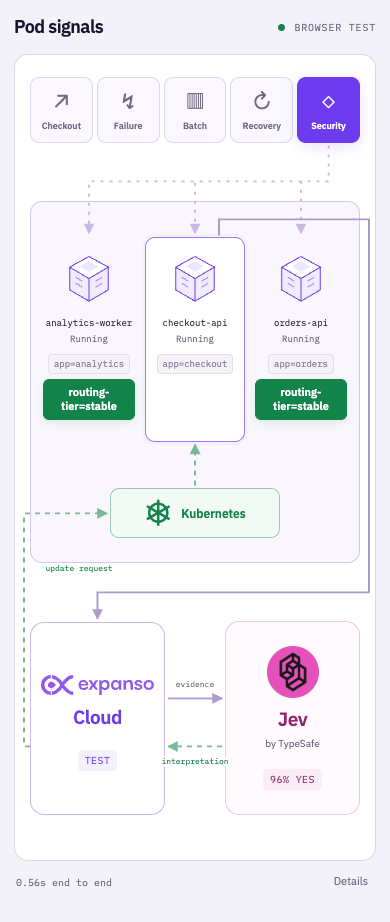
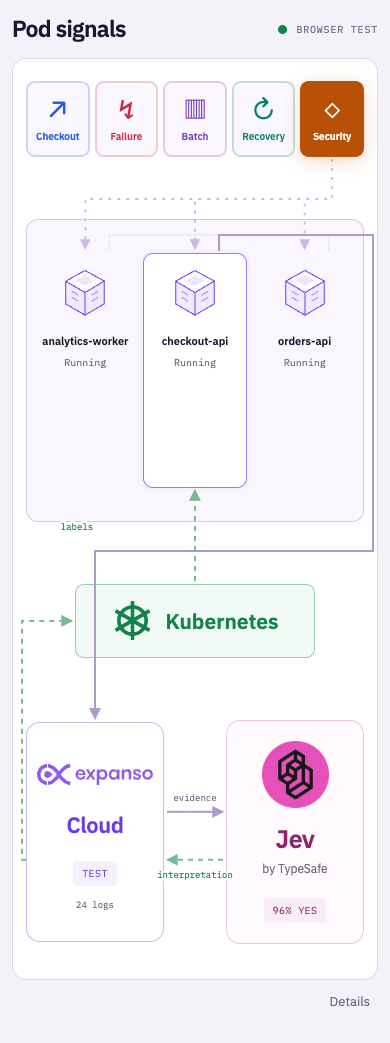
Make pod signals prominent over live routine traffic

diff --git a/demos/11-pod-labels/web/index.html b/demos/11-pod-labels/web/index.html
@@ -20,6 +20,7 @@
     <div class="topology" id="topology">
       <svg class="wires" id="wires" aria-hidden="true">
         <defs><marker id="arrow" viewBox="0 0 10 10" refX="9" refY="5" markerWidth="6" markerHeight="6" orient="auto-start-reverse"><path d="M0 0 10 5 0 10Z" fill="context-stroke"/></marker></defs>
+        <g id="routine-wires"></g>
         <g id="injection-wires"></g>
         <path id="to-cloud" class="wire"/>
         <path id="to-jev" class="wire"/>
@@ -27,6 +28,7 @@
         <path id="to-kube" class="wire return"/>
         <path id="to-pod" class="wire return"/>
         <g id="wire-labels"></g>
+        <g id="routine-packets"></g>
         <g id="packets"></g>
       </svg>
       <section class="event-source" id="event-source" aria-label="Workload events">
@@ -40,11 +42,11 @@
       </section>
       <div class="cluster" id="cluster">
         <div class="pods" id="pods"><p class="empty">Connecting…</p></div>
-        <div class="kube-node" id="kube-node"><span aria-hidden="true">⎈</span><b>Kubernetes</b></div>
       </div>
+      <div class="kube-node" id="kube-node"><span aria-hidden="true">⎈</span><b>Kubernetes</b></div>
       <div class="processor cloud-node" id="cloud-node" aria-label="Expanso Cloud">
[1 lines of base64/hex data omitted]
-        <h2>Cloud</h2><span class="node-status" id="cloud-status">UNKNOWN</span>
+        <h2>Cloud</h2><span class="node-status" id="cloud-status">UNKNOWN</span><span class="routine-count" id="routine-count">0 logs</span>
       </div>
       <div class="processor jev-node" id="jev-node" aria-label="Jev by TypeSafe">
[1 lines of base64/hex data omitted]
@@ -52,15 +54,16 @@
       </div>
     </div>
   </section>
-  <footer><span class="timing" id="timing">—</span><button id="details-toggle" aria-expanded="false" aria-controls="runtime-details">Details</button></footer>
+  <footer><span></span><button id="details-toggle" aria-expanded="false" aria-controls="runtime-details">Details</button></footer>
   <section id="runtime-details" class="runtime-details" hidden>
+<span class="timing" id="timing">—</span>
     <div class="result-bar" aria-live="polite"><span id="result-mark"></span><div><b id="result-title">Ready</b><span id="result-detail"></span></div></div>
     <section class="label-catalog" aria-label="Available labels"><h2>Available labels</h2><div id="available-labels"></div></section>
     <section class="evidence">
       <div class="log-panel"><div class="panel-heading"><h2>Pod logs <span id="selected-name"></span></h2></div><div class="log-lines" id="logs"></div></div>
       <div class="decision-panel"><div class="panel-heading"><h2>Decisions</h2><span class="micro" id="event-count">0 EVENTS</span></div><ol id="trail"></ol></div>
     </section>
-    <dl id="runtime-fields"></dl>
+    <dl id="runtime-fields"></dl><p>Muted particles represent routine logs collected by the Cloud pipeline. Colored particles follow triggered event receipts. Large badges highlight confirmed changes for five seconds; current Kubernetes labels remain listed below.</p><div id="current-labels"></div>
     <div hidden><span id="cluster-name"></span><span id="namespace"></span><span id="node-name"></span><span id="pod-count"></span><span id="activity"></span><span id="cloud-detail"></span></div>
   </section>
   <p id="error" role="alert" hidden></p>

diff --git a/demos/11-pod-labels/web/app.js b/demos/11-pod-labels/web/app.js
@@ -1,12 +1,15 @@
 'use strict';
 const $ = id => document.getElementById(id);
 const NS = 'http://www.w3.org/2000/svg';
-const colors = {source:'#6d3aed',cloud:'#6d3aed',jev:'#e347b6',return:'#187a3c',held:'#a06a22'};
+const eventColors={checkout:'#255ce5',failure:'#c92d4b',analytics:'#7839bc',recovery:'#087f6a',security:'#b85106'};
+const highlightMs=5000;
+const highlights=new Map();
+let routineCount=0,routineEpoch=0;
 const scenarios = {checkout:'Checkout',failure:'Route failure',analytics:'Batch job',recovery:'Recovery',security:'Security'};
 const names = {queued:'QUEUED',event:'POD LOG',collected:'CLOUD',judging:'JEV',judged:'VERDICT',applied:'APPLIED',undone:'UNDONE',held:'HELD',error:'ERROR','dry-run':'DRY RUN'};
 const cube = '<svg class="pod-icon" viewBox="0 0 72 76" aria-hidden="true"><path d="M36 5 65 21v34L36 72 7 55V21Z" fill="#f1ebfe" stroke="currentColor" stroke-width="1.5"/><path d="m7 21 29 17 29-17M36 38v34" fill="none" stroke="currentColor" stroke-width="1.5"/><path d="m36 5 29 16-29 17L7 21Z" fill="white" stroke="currentColor" stroke-width="1.5"/><path d="m22 20 14-8 14 8-14 8Z" fill="currentColor" opacity=".12"/><path d="m16 36 10 6m-10 3 10 6m20-9 10-6m-10 15 10-6" fill="none" stroke="currentColor" opacity=".45" stroke-width="2"/></svg>';
 let state=null,session=null,scenario='checkout',selected=null,cursor=0,initialized=false,refreshing=null,stateGeneration=0;
-const flows=new Map(),pending=new Map(),shownLabels=new Map();
+const flows=new Map(),pending=new Map();
 let events=[],eventPollTimer=null;
 const text=(id,value)=>{$(id).textContent=value??'';};
 function el(tag,cls,value){const n=document.createElement(tag);if(cls)n.className=cls;if(value!==undefined)n.textContent=value;return n;}
@@ -33,24 +36,27 @@ function geometry(podKey,chosenScenario=scenario){
   const bottom=$('topology').clientHeight-27;
   const toKube=mobile
     ?`M${c.x-c.w/2} ${returnY} H9 V${k.y} H${k.x-k.w/2-3}`
-    :`M${c.x} ${c.y+c.h/2+3} V${bottom} H${k.x} V${k.y+k.h/2+3}`;
-  const toPod=`M${k.x} ${k.y-k.h/2-3} V${p.y+p.h/2+26} H${p.x} V${p.y+p.h/2+2}`;
+    :`M${c.x} ${c.y-c.h/2-3} V${k.y+k.h/2+3}`;
+  const toPod=mobile
+    ?`M${k.x} ${k.y-k.h/2-3} V${p.y+p.h/2+26} H${p.x} V${p.y+p.h/2+2}`
+    :`M${k.x-k.w/2-3} ${k.y} H${cluster.x+cluster.w/2+38} V${bottom} H${p.x} V${p.y+p.h/2+2}`;
   return{inject,toCloud,toJev:`M${cRight+3} ${outboundY} H${jLeft-3}`,fromJev:`M${jLeft-3} ${returnY} H${cRight+3}`,toKube,toPod,
-    labels:[['evidence',(cRight+jLeft)/2,outboundY-11,false],['interpretation',(cRight+jLeft)/2,returnY+18,true],['update request',mobile?64:(k.x+c.x)/2,mobile?cluster.y+cluster.h/2+8:bottom-10,true]]};
+    labels:[['evidence',(cRight+jLeft)/2,outboundY-11,false],['interpretation',(cRight+jLeft)/2,returnY+18,true],['labels',mobile?64:(p.x+cluster.x+cluster.w/2+38)/2,mobile?cluster.y+cluster.h/2+8:bottom-10,true]]};
 }
 function drawWires(){
   const box=$('topology').getBoundingClientRect();$('wires').setAttribute('viewBox',`0 0 ${box.width} ${box.height}`);
   const g=geometry(selected);if(!g)return;
   for(const [id,path] of [['to-cloud',g.toCloud],['to-jev',g.toJev],['from-jev',g.fromJev],['to-kube',g.toKube],['to-pod',g.toPod]])$(id).setAttribute('d',path);
   $('wire-labels').replaceChildren(...g.labels.map(([label,x,y,back])=>{const n=svg('text',{x,y,class:'wire-label'+(back?' return':'')});n.textContent=label;return n;}));
+  $('routine-wires').replaceChildren(...(state?.pods||[]).map(p=>geometry(key(p))).filter(Boolean).map(p=>svg('path',{d:p.toCloud,class:'routine-wire'})));
   $('injection-wires').replaceChildren(...(state?.pods||[]).map(p=>geometry(key(p))).filter(Boolean).map(p=>svg('path',{d:p.inject,class:'injection-wire'})));
 }
-function travel(path,color,route,duration=220){
+function travel(path,color,route,duration=220,kind='signal'){
   if(!path||matchMedia('(prefers-reduced-motion: reduce)').matches)return Promise.resolve();
   const measure=svg('path',{d:path,fill:'none',stroke:'none'});
-  const packet=svg('g',{class:'packet','data-route':route,style:`color:${color}`});
-  packet.append(svg('circle',{r:12,fill:color,class:'packet-halo'}),svg('circle',{r:5,fill:color,class:'packet-core'}));
-  $('packets').append(measure,packet);
+  const packet=svg('g',{class:kind==='routine'?'routine-packet':'packet','data-route':route,style:`color:${color}`});
+  packet.append(svg('circle',{r:kind==='routine'?4:21,fill:color,class:'packet-halo'}),svg('circle',{r:kind==='routine'?2.5:9,fill:color,class:'packet-core'}));
+  $(kind==='routine'?'routine-packets':'packets').append(measure,packet);
   const length=measure.getTotalLength();
   const first=measure.getPointAtLength(0);packet.setAttribute('transform',`translate(${first.x} ${first.y})`);
   return new Promise(resolve=>{const start=performance.now();function frame(now){const progress=Math.min(1,(now-start)/duration),p=measure.getPointAtLength(length*progress);packet.setAttribute('transform',`translate(${p.x} ${p.y})`);if(progress<1)requestAnimationFrame(frame);else{packet.remove();measure.remove();resolve();}}requestAnimationFrame(frame);});
@@ -58,7 +64,8 @@ function travel(path,color,route,duration=220){
 function animate(flow,stage){
   flow.chain=flow.chain.then(async()=>{
     const g=geometry(flow.podKey,flow.scenario);if(!g)return;
-    const steps={inject:[g.inject,colors.source,'event-to-pod',120],event:[g.toCloud,colors.cloud,'pod-to-cloud',160],judging:[g.toJev,colors.jev,'cloud-to-jev',120],judged:[g.fromJev,colors.return,'jev-to-cloud',120],request:[g.toKube,colors.return,'cloud-to-kubernetes',100],terminal:[g.toPod,colors.return,'kubernetes-to-pod',100]};
+    const color=eventColors[flow.scenario]||eventColors.checkout;
+    const steps={inject:[g.inject,color,'event-to-pod',180],event:[g.toCloud,color,'pod-to-cloud',300],judging:[g.toJev,color,'cloud-to-jev',240],judged:[g.fromJev,color,'jev-to-cloud',240],request:[g.toKube,color,'cloud-to-kubernetes',240],terminal:[g.toPod,color,'kubernetes-to-pod',260]};
     const args=steps[stage];if(args)await travel(...args);
   });
   return flow.chain;
@@ -87,12 +94,7 @@ function renderPods(){
     if(!button){button=el('button','pod');button.dataset.pod=id;button.dataset.name=pod.name;button.innerHTML=cube;button.append(el('span','pod-name',pod.name),el('span','pod-phase'),el('span','pod-labels'));button.addEventListener('click',()=>sendEvent(pod));$('pods').append(button);}
     button.dataset.enabled=String(pod.event_enabled!==false);
     button.querySelector('.pod-phase').textContent=pod.status||'Unknown';
-    const prior=shownLabels.get(id)||{};
-    const labels=pending.has(id)&&shownLabels.has(id)?prior:(pod.labels||{});
-    if(button.dataset.labels!==JSON.stringify(labels)){
-      button.querySelector('.pod-labels').replaceChildren(...Object.entries(labels).filter(([k])=>!k.startsWith('jev.expanso.io/')&&!['pod-template-hash','controller-revision-hash'].includes(k)).map(([k,v])=>el('span','label'+(k==='routing-tier'?' routing':'')+(k in labels&&prior[k]!==v&&shownLabels.has(id)?' new':''),`${k}=${v}`)));
-      button.dataset.labels=JSON.stringify(labels);shownLabels.set(id,{...labels});
-    }
+
   }
   text('pod-count',`${pods.length} pods`);text('node-name',[...new Set(pods.map(p=>p.node).filter(Boolean))].join(' · ')||'Kubernetes workloads');updateBusy();requestAnimationFrame(drawWires);
 }
@@ -108,7 +110,7 @@ function acceptEvents(incoming,animateNew=true){
     if(event.seq<=cursor)continue;
     const id=`${event.namespace}/${event.pod}`,localFlow=pending.get(id);
     if(animateNew&&localFlow&&!localFlow.requestId)break;
-    cursor=event.seq;events.push(event);if(!animateNew)continue;
+    cursor=event.seq;if(event.stage==='routine'){if(animateNew)showRoutine(event);continue;}events.push(event);if(!animateNew)continue;
     let flow=flows.get(event.request_id);
     if(!flow&&localFlow&&localFlow.requestId===event.request_id)flow=localFlow;
     if(!flow&&localFlow)continue;
@@ -144,15 +146,32 @@ async function finish(flow,event){
   if(event.stage==='error')showError(explanation);
   updateBusy();await refreshState();renderPods();renderLogs();
 }
+function showRoutine(event){
+  const id=`${event.namespace}/${event.pod}`;
+  const count=Math.max(0,Math.min(12,Number(event.count)||0));
+  routineCount+=Number(event.count)||0;text('routine-count',`${routineCount.toLocaleString()} logs`);
+  const epoch=routineEpoch;
+  for(let i=0;i<count;i++)setTimeout(()=>{
+    if(epoch!==routineEpoch||document.hidden||state?.cloud?.state!=='running')return;
+    const g=geometry(id);if(g)travel(g.toCloud,'#9892a8','routine-to-cloud',1400,'routine');
+  },i*140);
+}
 function showLabelChange(flow,event){
   const button=podButton(flow.podKey);if(!button)return;
-  clearTimeout(button.changeTimer);
+  clearTimeout(highlights.get(flow.podKey)?.timer);
   button.querySelectorAll('.label-change').forEach(n=>n.remove());
-  button.classList.remove('changed-added','changed-removed');
+  const color=eventColors[flow.scenario]||eventColors.checkout;
   const removed=event.stage==='undone';
-  const change=el('span','label-change '+(removed?'removed':'added'),`${removed?'−':'+'} ${event.key}=${event.value}`);
-  button.append(change);button.classList.add(removed?'changed-removed':'changed-added');
-  button.changeTimer=setTimeout(()=>{change.remove();button.classList.remove('changed-removed','changed-added');},1400);
+  const change=el('span','label-change '+(removed?'removed':'added'));
+  change.style.setProperty('--event-color',color);
+  change.append(el('strong','',event.value),el('span','',removed?`${event.key} removed`:event.key));
+  change.dataset.scenario=flow.scenario;change.dataset.value=event.value;
+  button.append(change);button.style.setProperty('--signal-color',color);button.classList.add('signal-highlight');
+  const record={node:change,timer:null};highlights.set(flow.podKey,record);
+  record.timer=setTimeout(()=>{
+    if(highlights.get(flow.podKey)!==record)return;
+    change.remove();button.classList.remove('signal-highlight');highlights.delete(flow.podKey);
+  },highlightMs);
 }
 async function sendEvent(pod){
   const id=key(pod);if(pending.has(id))return;
@@ -170,6 +189,7 @@ async function sendEvent(pod){
 }
 function renderState(){
   const cloud=state.cloud||{};
+  $('current-labels').replaceChildren(...(state.pods||[]).map(p=>{const row=el('p');row.append(el('b','',p.name+' '),el('code','',JSON.stringify(p.labels||{})));return row;}));
   $('available-labels').replaceChildren(...(state.available_labels||[]).map(label=>{const item=el('div','label-choice');item.append(el('code','',`${label.key}=${label.value}`),el('span','',label.meaning));return item;}));
   text('connection',cloud.state==='running'?'Cloud execution running':cloud.state==='stopped'?'Cloud job stopped':'Cloud execution unverified');$('connection-dot').className='dot'+(cloud.state==='running'?' live':'');
   text('mode',state.apply_enabled?'LIVE':'DRY RUN');$('mode').classList.toggle('dry',!state.apply_enabled);
@@ -184,12 +204,13 @@ function refreshState(){
   return refreshing;
 }
 async function pollEvents(){
-  try{if(initialized){const r=await fetch(`/api/events?after=${cursor}`,{cache:'no-store'});if(!r.ok)throw Error('Event feed unavailable');const body=await r.json();if(Number.isFinite(body.cursor)&&body.cursor<cursor){cursor=0;initialized=false;events=[];flows.clear();pending.clear();session=null;shownLabels.clear();stateGeneration++;text('result-title','Adapter reconnected.');text('result-detail','Ready for a new event. Previous in-flight results are unverified.');text('timing','—');await refreshState();}else acceptEvents(body.events||[]);}}
+  try{if(initialized){const r=await fetch(`/api/events?after=${cursor}`,{cache:'no-store'});if(!r.ok)throw Error('Event feed unavailable');const body=await r.json();if(Number.isFinite(body.cursor)&&body.cursor<cursor){cursor=0;initialized=false;events=[];flows.clear();pending.clear();session=null;routineEpoch++;routineCount=0;for(const h of highlights.values()){clearTimeout(h.timer);h.node.remove();}highlights.clear();document.querySelectorAll(".signal-highlight").forEach(n=>n.classList.remove("signal-highlight"));stateGeneration++;text('result-title','Adapter reconnected.');text('result-detail','Ready for a new event. Previous in-flight results are unverified.');text('timing','—');await refreshState();}else acceptEvents(body.events||[]);}}
   catch{if(pending.size)text('activity','Event feed disconnected; waiting to reconnect.');}
   finally{eventPollTimer=setTimeout(pollEvents,200);}
 }
+for(const button of document.querySelectorAll('[data-scenario]'))button.style.setProperty('--event-color',eventColors[button.dataset.scenario]);
 for(const button of document.querySelectorAll('[data-scenario]'))button.addEventListener('click',()=>{scenario=button.dataset.scenario;for(const b of document.querySelectorAll('[data-scenario]')){b.classList.toggle('active',b===button);b.setAttribute('aria-pressed',String(b===button));}updateBusy();drawWires();});
 $('details-toggle').addEventListener('click',()=>{const hidden=!$('runtime-details').hidden;$('runtime-details').hidden=hidden;$('details-toggle').setAttribute('aria-expanded',String(!hidden));$('details-toggle').textContent=hidden?'Details':'Close';});
 window.addEventListener('resize',drawWires);new ResizeObserver(drawWires).observe($('topology'));
-window.addEventListener('pagehide',()=>clearTimeout(eventPollTimer));
+window.addEventListener('pagehide',()=>{clearTimeout(eventPollTimer);routineEpoch++;for(const h of highlights.values())clearTimeout(h.timer);});
 refreshState().then(pollEvents);setInterval(refreshState,2500);

diff --git a/demos/11-pod-labels/web/style.css b/demos/11-pod-labels/web/style.css
@@ -47,3 +47,23 @@ footer{display:flex;align-items:center;justify-content:space-between;padding:12p
 @media(max-width:850px){.shell{padding-inline:14px}.topbar{height:54px}.topology{grid-template-columns:repeat(2,minmax(0,1fr));grid-template-rows:auto auto auto;gap:58px 72px;padding:22px 22px 45px}.event-source{grid-column:1/3;grid-row:1}.cluster{grid-column:1/3;grid-row:2;padding:35px 8px 120px}.cloud-node{grid-column:1;grid-row:3}.jev-node{grid-column:2;grid-row:3}.processor{min-height:193px}.pods{gap:6px}.event-chip b{font-size:11px}.label.routing{font-size:12px}.evidence{grid-template-columns:1fr}.runtime-details dl{grid-template-columns:1fr}.runtime-details dd{margin-bottom:8px}}
 @media(max-width:420px){.topology{column-gap:60px;padding-inline:15px}.event-tray{gap:4px}.event-chip b{font-size:9px}.event-icon{font-size:22px}.pod{padding-inline:3px;min-height:205px}.pod-name{font-size:9px}.pod-icon{width:48px;height:53px}.label.routing{font-size:11px}.label-change{font-size:11px;padding:6px}.processor h2{font-size:19px}.expanso-logo{height:38px}.typesafe-logo{width:52px;height:52px}.wire-label{font-size:8px}}
 @media(prefers-reduced-motion:reduce){*,*::before,*::after{animation:none!important;transition:none!important}.packet{display:none}}
+
+/* Large capture canvas: ordinary traffic stays quiet; signals retain one color. */
+.shell{max-width:none;padding:0 28px 18px}
+.topbar{height:72px}h1{font-size:28px}.mode{font-size:12px}.dot{width:9px;height:9px}
+.board{min-height:680px;height:calc(100svh - 125px)}
+.topology{height:100%;grid-template-columns:minmax(0,1.8fr) minmax(0,.8fr) minmax(0,.7fr);grid-template-rows:110px minmax(0,1fr);column-gap:84px;row-gap:40px;padding:26px 30px 70px}
+.event-source{align-self:center}.event-tray{gap:12px}.event-chip{min-height:90px;gap:5px;border-width:2px;border-color:color-mix(in srgb,var(--event-color) 25%,white);color:var(--event-color)}.event-chip b{font-size:17px}.event-icon{font-size:34px}.event-chip.active{background:var(--event-color);border-color:var(--event-color);box-shadow:0 4px 18px color-mix(in srgb,var(--event-color) 22%,transparent);color:white}
+.cluster{align-self:stretch;display:flex;align-items:center;padding:38px 12px 35px;min-height:340px}.pods{width:100%;gap:12px}.pod{min-height:290px;padding:17px 7px 112px;justify-content:flex-start}.pod-icon{width:92px;height:99px}.pod-name{font:600 17px var(--sans);margin:15px 0 8px}.pod-phase{font-size:12px}.pod-labels{display:none}
+.kube-node{position:relative;grid-column:2;grid-row:1;bottom:auto;left:auto;transform:none;align-self:center;justify-self:center;width:100%;max-width:290px;min-height:86px;padding:15px;gap:12px}.kube-node>span{font-size:42px}.kube-node b{font-size:21px}
+.processor{min-height:290px;padding:26px 18px}.expanso-logo{height:66px;max-width:280px}.typesafe-logo{width:94px;height:94px}.processor h2{font-size:32px;margin:13px 0 20px}.cloud-node h2{font-size:27px}.processor h2 small{font-size:14px}.node-status{font-size:13px;padding:6px 9px}.routine-count{font:13px var(--mono);color:var(--muted);margin-top:13px}
+.wire-label{font-size:12px}.wire{stroke-width:2}.routine-wire{fill:none;stroke:#b4afbf;stroke-width:1;opacity:.3}.routine-packet{opacity:.58}.routine-packet .packet-core{stroke:none}.routine-packet .packet-halo{opacity:.13}.packet{filter:drop-shadow(0 0 7px currentColor)}.packet-halo{opacity:.17}
+.label-change{left:8px;right:8px;bottom:14px;transform:none;width:auto;white-space:normal;text-align:center;min-height:86px;padding:12px 6px;background:var(--event-color)!important;color:white;box-shadow:0 5px 20px color-mix(in srgb,var(--event-color) 24%,transparent);animation:signal-arrive 180ms ease-out forwards}
+.label-change strong{display:block;font:600 29px/1.12 var(--sans);overflow-wrap:anywhere}.label-change>span{display:block;font:600 13px var(--sans);margin-top:7px;overflow-wrap:anywhere}.label-change.removed>strong{text-decoration:line-through;text-decoration-thickness:2px}.pod.signal-highlight{border-color:var(--signal-color);box-shadow:0 0 0 4px color-mix(in srgb,var(--signal-color) 20%,transparent)}
+.timing{font-size:12px}footer button{font-size:13px}#current-labels code{overflow-wrap:anywhere}
+@keyframes signal-arrive{from{opacity:0;scale:.92}to{opacity:1;scale:1}}
+@media(min-width:1600px){.event-chip b{font-size:20px}.event-icon{font-size:40px}.pod{min-height:350px;padding-bottom:130px}.pod-icon{width:112px;height:120px}.pod-name{font-size:21px}.pod-phase{font-size:14px}.label-change{min-height:103px;padding:15px 8px}.label-change strong{font-size:38px}.label-change>span{font-size:16px}.processor{min-height:330px}.typesafe-logo{width:115px;height:115px}.kube-node b{font-size:24px}}
+@media(min-width:851px) and (max-width:1250px){.shell{padding-inline:18px}.topology{column-gap:58px;padding-inline:20px;grid-template-columns:minmax(0,1.7fr) minmax(0,.85fr) minmax(0,.75fr)}.event-tray{gap:6px}.event-chip b{font-size:14px}.event-icon{font-size:29px}.pod-name{font-size:14px}.pod-icon{width:70px;height:76px}.pods{gap:5px}.pod{padding-inline:4px;min-height:265px}.label-change strong{font-size:24px}.label-change>span{font-size:11px}.label-change{left:3px;right:3px}.processor{padding-inline:10px;min-height:260px}.kube-node b{font-size:16px}.kube-node>span{font-size:32px}.typesafe-logo{width:78px;height:78px}.wire-label{font-size:9px}}
+@media(max-width:850px){.shell{padding-inline:12px}.topbar{height:58px}h1{font-size:23px}.mode{font-size:10px}.board{height:auto;min-height:0}.topology{height:auto;grid-template-columns:repeat(2,minmax(0,1fr));grid-template-rows:auto auto auto auto;gap:62px 70px;padding:22px 20px 35px}.event-source{grid-column:1/3;grid-row:1}.event-tray{gap:5px}.event-chip{min-height:76px}.event-chip b{font-size:12px}.event-icon{font-size:27px}.cluster{grid-column:1/3;grid-row:2;padding:33px 6px;min-height:0}.pods{gap:5px}.pod{min-height:245px;padding:12px 3px 104px}.pod-icon{width:62px;height:68px}.pod-name{font-size:13px}.pod-phase{font-size:10px}.kube-node{grid-column:1/3;grid-row:3;width:240px;min-height:73px}.kube-node b{font-size:21px}.cloud-node{grid-column:1;grid-row:4}.jev-node{grid-column:2;grid-row:4}.processor{min-height:220px;padding:20px 10px}.expanso-logo{height:42px}.typesafe-logo{width:67px;height:67px}.processor h2{font-size:25px}.cloud-node h2{font-size:22px}.processor h2 small{font-size:12px}.node-status,.routine-count{font-size:10px}.label-change{left:3px;right:3px;bottom:12px;min-height:80px;padding:12px 4px}.label-change strong{font-size:25px}.label-change>span{font-size:11px}.wire-label{font-size:9px}}
+@media(max-width:420px){.topology{padding-inline:13px;column-gap:62px}.event-chip b{font-size:10px}.pod-name{font-size:11px}.pod-icon{width:48px;height:53px}.label-change strong{font-size:22px}.label-change>span{font-size:10px}.pod{min-height:235px}.routine-count{font-size:9px}}
+@media(prefers-reduced-motion:reduce){.routine-packet,.packet{display:none}.label-change{animation:none!important}}

diff --git a/demos/11-pod-labels/test_local.py b/demos/11-pod-labels/test_local.py
@@ -110,6 +110,8 @@ class LauncherTests(unittest.TestCase):
         old["metadata"]["annotations"]["jev.expanso.io/workload-version"] = (
             "ordinary-v3"
         )
+        self.assertEqual(module.fixture_upgrade_targets([old]), ["checkout-api"])
+        old["metadata"]["annotations"]["jev.expanso.io/workload-version"] = "noise-v4"
         self.assertEqual(module.fixture_upgrade_targets([old]), [])
         old["metadata"]["annotations"] = {}
         with self.assertRaisesRegex(RuntimeError, "unrecognized"):
@@ -141,9 +143,7 @@ class LauncherTests(unittest.TestCase):
         for name in ["checkout-api", "orders-api", "analytics-worker"]:
             p = copy.deepcopy(old)
             p["metadata"]["name"] = name
-            p["metadata"]["annotations"]["jev.expanso.io/workload-version"] = (
-                "ordinary-v3"
-            )
+            p["metadata"]["annotations"]["jev.expanso.io/workload-version"] = "noise-v4"
             self.assertEqual(module.fixture_upgrade_targets([p]), [])
             del p["metadata"]["annotations"]["jev.expanso.io/fixture"]
             with self.assertRaisesRegex(RuntimeError, "unrecognized"):

diff --git a/demos/11-pod-labels/local.py b/demos/11-pod-labels/local.py
@@ -71,7 +71,7 @@ def fixture_upgrade_targets(pods):
             )
         if (
             meta["name"] in {"checkout-api", "orders-api", "analytics-worker"}
-            and annotations.get("jev.expanso.io/workload-version") == "ordinary-v3"
+            and annotations.get("jev.expanso.io/workload-version") == "noise-v4"
         ):
             continue
         targets.append(meta["name"])

diff --git a/demos/11-pod-labels/README.md b/demos/11-pod-labels/README.md
@@ -13,7 +13,7 @@ requests a change through the Kubernetes API; Kubernetes updates the pod. The cl
 observed evidence; labels only change after Kubernetes accepts the patch.
 The canvas keeps only event controls, workloads, logos, and moving signals.
 Logs, decisions, available labels, and runtime metadata are under **Details**.
-Confirmed additions flash green; removals flash red and fade out.
+Routine synthetic heartbeat logs stream from all three pods through Cloud without calling Jev. Triggered signals keep their event color through every hop and the large confirmed label highlight. Highlights stay fully visible for five seconds; actual Kubernetes labels persist and remain inspectable in Details.
 Pod logs exit from the top; Kubernetes updates enter from the bottom.
 
 Implements [Nathan LeClaire's example](https://x.com/dotpem/status/2101432286214525156):
@@ -30,7 +30,7 @@ There is no 15-second timer. The browser receives stage updates every 200 ms.
 Particles follow event → pod → Expanso → Jev → Expanso → Kubernetes → pod.
 Expanso reads logs and owns the workflow; Jev interprets; Kubernetes applies
 Expanso’s requested changes. Held judgments stop at Expanso. Label changes
-wait for Kubernetes confirmation. Real inference latency is measured on screen.
+wait for Kubernetes confirmation. Real inference latency is available in Details.
 The adapter has no reconciliation timer. Stopping the Cloud job stops
 processing. Everything uses the existing TypeSafe System One API.
 
@@ -68,6 +68,12 @@ Checkout and orders each received and then lost a routing label. Analytics
 was held at 89%; checkout recovery was held at 64%. These are real model
 judgments, not scripted outcomes. See [receipts](../../docs/pod-event-proof.json).
 The latency range is observed, not guaranteed.
+
+The routine-stream update was also verified live: all three pods emitted
+Cloud-collected heartbeat logs without idle Jev calls, followed by a real
+checkout judgment and Kubernetes label addition. The matching blue badge
+remained visible for five seconds. See [receipts](../../docs/pod-noise-proof.json)
+and the [live capture](../../docs/pod-noise-live.png).
 
 ## One-command local start
 
